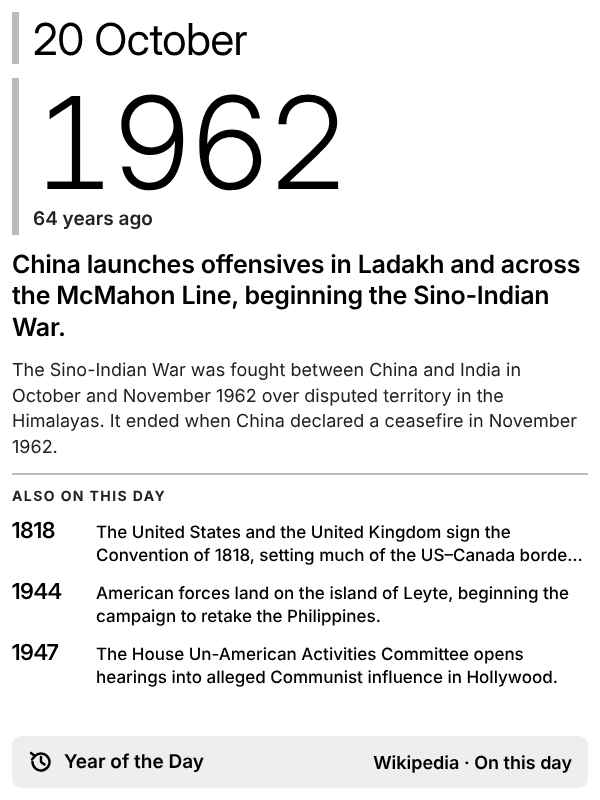
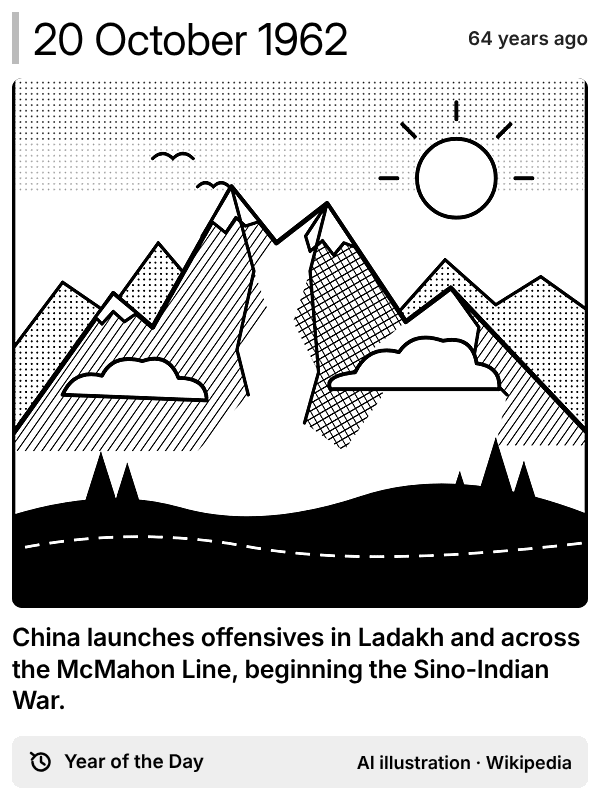
Year of the Day: AI comic / newspaper illustration mode
Draws the day's event as a comic panel (default) or vintage newspaper halftone
illustration with FLUX.1 [schnell] on Cloudflare Workers AI (free daily allowance),
dithered to the Kindle's 16 greys. Made once a day and reused by hourly refreshes.
Picture modes skip events built around a death or an attack. Falls back to the
text layout without Cloudflare keys or on any error. Run summary shows which.

Claude-Session: https://claude.ai/code/session_01GcKyYFsaBsPuGYxqe3XuTx

diff --git a/plugins/year_of_the_day/fetch.py b/plugins/year_of_the_day/fetch.py
@@ -1,16 +1,41 @@
 """Year of the Day: one year in history picked from Wikipedia's "On this day" events for today's date.
 
-Equivalent of TRMNL's "Year of the Day" recipe (text mode). Data: Wikimedia's free feed API, no key.
+Equivalent of TRMNL's "Year of the Day" recipe. Data: Wikimedia's free feed API, no key.
 The pick is seeded by the date, so every refresh that day shows the same year.
+
+Modes (plugin.yaml `settings.mode`):
+  text       year, what happened, background, other years
+  comic      an AI comic-panel illustration of the event, with the year and headline
+  newspaper  the same, drawn as a vintage newspaper halftone illustration
+Image modes use Cloudflare Workers AI (free daily allowance). The image is made once a day
+and reused by the hourly refreshes. Without Cloudflare keys, or if generation fails, the
+screen falls back to text mode.
 """
 import random
+import re
+import shutil
+from pathlib import Path
 
-from core import fmt
+from core import fmt, imagegen, llm
+from core.context import ROOT
 
 SOURCES = [
     "https://api.wikimedia.org/feed/v1/wikipedia/en/onthisday/events/{mm}/{dd}",
     "https://en.wikipedia.org/api/rest_v1/feed/onthisday/events/{mm}/{dd}",
 ]
+IMAGE_W, IMAGE_H = 576, 530
+SITE_IMAGE = "img/year_of_the_day.png"
+# Image modes skip events built around a death or an attack: a drawing of those reads badly.
+GRIM = re.compile(r"\b(kill|killed|killing|assassinat\w*|massacre\w*|murder\w*|execut\w*|bomb\w*|terror\w*|"
+                  r"shot|shooting|dies|died|death|genocide|suicide|hanged|beheaded|crash\w*)\b", re.I)
+STYLES = {
+    "comic": ("Black-and-white comic book panel illustration, bold black ink outlines, cross-hatching and "
+              "halftone dot shading, strong contrast, large clean white areas, dramatic composition."),
+    "newspaper": ("Black-and-white vintage newspaper illustration printed in coarse halftone, engraved "
+                  "ink look, period-accurate details, strong contrast."),
+}
+RULES = ("No text, letters, numbers, captions or speech bubbles. Show places, objects, vehicles, crowds "
+         "or symbols rather than close-up faces of real people. No gore.")
 
 
 def _year_label(y: int) -> str:
@@ -40,15 +65,61 @@ def _load(ctx) -> dict:
     raise RuntimeError(f"On this day feed unavailable: {last}")
 
 
+def _scene(ctx, main: dict, mode: str) -> str:
+    """A visual description of the event for the image model (AI-written when a key is set)."""
+    fallback = f"{main['text']} ({main['label']})."
+    if ctx.demo:
+        return fallback
+    ai, _ = llm.generate_json(
+        ctx,
+        "You turn historical events into one short visual scene for an illustrator. "
+        "Describe only what is seen: setting, objects, era details, mood. Reply with JSON only.",
+        f"Event in {main['label']}: {main['text']}\nBackground: {main['extract']}\n"
+        f"Style: {mode}. {RULES}\n"
+        'Return {"scene": "one sentence, max 45 words"}', max_tokens=200)
+    scene = fmt.strip_html(str((ai or {}).get("scene", "")), 400)
+    return scene or fallback
+
+
+def _illustrate(ctx, main: dict, mode: str) -> Path | None:
+    out = ROOT / "build" / "img" / "year_of_the_day.png"
+    out.parent.mkdir(parents=True, exist_ok=True)
+    # Reuse today's picture from the live site (made by the morning run).
+    prev = ctx.previous_json("data/year_of_the_day.json") or {}
+    if (prev.get("date") == ctx.today and prev.get("mode") == mode and prev.get("image")
+            and (prev.get("main") or {}).get("year") == main["year"]):
+        raw = ctx.previous(SITE_IMAGE)
+        if raw:
+            out.write_bytes(raw)
+            ctx.log("year_of_the_day: reusing today's illustration")
+            return out
+    prompt = f"{STYLES[mode]} Scene: {_scene(ctx, main, mode)} {RULES}"
+    raw = imagegen.generate(ctx, prompt, model=ctx.settings.get("image_model") or imagegen.DEFAULT_MODEL,
+                            seed=int(ctx.today.replace("-", "")) % 1_000_000)
+    if not raw:
+        return None
+    try:
+        imagegen.for_eink(raw, IMAGE_W, IMAGE_H).save(out, optimize=True)
+    except Exception as e:  # not an image we can read
+        ctx.log(f"year_of_the_day: could not process image: {e}")
+        return None
+    return out
+
+
 def fetch(ctx):
+    mode = str(ctx.settings.get("mode", "text")).lower()
+    if mode not in ("text", *STYLES):
+        mode = "text"
     events = [e for e in (_clean(x) for x in _load(ctx).get("events", [])) if e and e["year"] <= ctx.now.year]
     if not events:
         return {"available": False, "error": "no events for today"}
     rng = random.Random(ctx.today)                  # same pick for the whole day
-    with_extract = [e for e in events if e["extract"]] or events
+    pool = [e for e in events if e["extract"]] or events
+    if mode != "text":
+        pool = [e for e in pool if not GRIM.search(e["text"])] or pool
     prefer = [w.lower() for w in ctx.settings.get("prefer") or []]
-    preferred = [e for e in with_extract if any(w in (e["text"] + " " + e["extract"]).lower() for w in prefer)]
-    main = rng.choice(preferred or with_extract)
+    preferred = [e for e in pool if any(w in (e["text"] + " " + e["extract"]).lower() for w in prefer)]
+    main = rng.choice(preferred or pool)
 
     rest = [e for e in events if e["year"] != main["year"]]
     rng.shuffle(rest)
@@ -59,9 +130,24 @@ def fetch(ctx):
             seen.add(e["year"])
         if len(others) == int(ctx.settings.get("also_count", 3)):
             break
+
+    image = _illustrate(ctx, main, mode) if mode != "text" else None
     return {
         "available": True,
+        "date": ctx.today,
+        "mode": mode if image else "text",
         "date_long": ctx.now.strftime("%-d %B"),
         "main": {**main, "ago": ctx.now.year - main["year"] - (1 if main["year"] < 0 else 0)},  # no year 0
         "others": sorted(others, key=lambda e: e["year"]),
+        "image": image.as_uri() if image else None,
+        "image_w": IMAGE_W,
+        "image_h": IMAGE_H,
     }
+
+
+def publish(ctx, data, site_dir: Path):
+    """Publish today's illustration so the hourly refreshes can reuse it."""
+    if data.get("image"):
+        dest = site_dir / SITE_IMAGE
+        dest.parent.mkdir(parents=True, exist_ok=True)
+        shutil.copyfile(ROOT / "build" / "img" / "year_of_the_day.png", dest)

diff --git a/core/imagegen.py b/core/imagegen.py
@@ -1,0 +1,66 @@
+"""Text-to-image via Cloudflare Workers AI (free daily allowance), plus e-ink preparation.
+
+Needs two environment variables (GitHub secrets): CLOUDFLARE_ACCOUNT_ID and CLOUDFLARE_API_TOKEN.
+FLUX.1 [schnell] at 8 steps costs ~82 of the 10,000 free daily units, so one image a day is free.
+"""
+from __future__ import annotations
+
+import base64
+import io
+import os
+
+from PIL import Image, ImageFilter, ImageOps
+
+from .context import Context
+
+DEFAULT_MODEL = "@cf/black-forest-labs/flux-1-schnell"
+API = "https://api.cloudflare.com/client/v4/accounts/{account}/ai/run/{model}"
+
+
+def configured() -> bool:
+    return bool(os.environ.get("CLOUDFLARE_ACCOUNT_ID") and os.environ.get("CLOUDFLARE_API_TOKEN"))
+
+
+def generate(ctx: Context, prompt: str, model: str = DEFAULT_MODEL, seed: int | None = None) -> bytes | None:
+    """Returns encoded image bytes (JPEG/PNG), or None if not configured or the call fails."""
+    if ctx.demo:
+        try:
+            return ctx.fixture("yotd_illustration.png")
+        except FileNotFoundError:
+            return None
+    if not configured():
+        ctx.log("image: CLOUDFLARE_ACCOUNT_ID / CLOUDFLARE_API_TOKEN not set; using the text layout")
+        return None
+    url = os.environ.get("CLOUDFLARE_AI_URL") or API.format(account=os.environ["CLOUDFLARE_ACCOUNT_ID"], model=model)
+    body = {"prompt": prompt[:2048], "steps": 8}
+    if seed is not None:
+        body["seed"] = seed
+    for attempt in (1, 2):
+        try:
+            r = ctx.session.post(url, json=body, timeout=120,
+                                 headers={"Authorization": f"Bearer {os.environ['CLOUDFLARE_API_TOKEN']}"})
+            if r.status_code != 200:
+                ctx.log(f"image: Cloudflare HTTP {r.status_code}: {r.text[:200]}")
+                continue
+            if r.headers.get("content-type", "").startswith("image/"):
+                return r.content
+            payload = r.json()
+            b64 = (payload.get("result") or {}).get("image") or payload.get("image")
+            if not b64:
+                ctx.log(f"image: no image in response: {str(payload)[:200]}")
+                continue
+            return base64.b64decode(b64)
+        except Exception as e:
+            ctx.log(f"image: attempt {attempt} failed: {e}")
+    return None
+
+
+def for_eink(raw: bytes, width: int, height: int) -> Image.Image:
+    """Crop to fill width x height, boost contrast, and dither to the Kindle's 16 greys."""
+    img = Image.open(io.BytesIO(raw)).convert("L")
+    img = ImageOps.fit(img, (width, height), method=Image.Resampling.LANCZOS, centering=(0.5, 0.45))
+    img = ImageOps.autocontrast(img, cutoff=1)
+    img = img.filter(ImageFilter.UnsharpMask(radius=1.2, percent=60, threshold=2))
+    palette = Image.new("P", (1, 1))
+    palette.putpalette([v for level in range(16) for v in (level * 17,) * 3] + [0, 0, 0] * 240)
+    return img.convert("RGB").quantize(palette=palette, dither=Image.Dither.FLOYDSTEINBERG).convert("L")

diff --git a/tools/docs_images.py b/tools/docs_images.py
@@ -97,16 +97,19 @@ def main() -> None:
     fb = TMP / "fixtures"
     shutil.copytree(ROOT / "fixtures", fb)
     (fb / "demo" / "llm_brief.json").write_text('{"unusable": true}')
+    (fb / "demo" / "yotd_illustration.png").unlink()      # no image -> Year of the Day text layout
     real = ROOT / "fixtures"
     backup = ROOT / "build" / "fixtures.bak"
     shutil.move(real, backup)
     try:
         shutil.copytree(fb, real)
         fsite = run_build("build/docs/fallback", "07:00")
+        run_build("build/docs/fallback_yotd", "11:30")
     finally:
         shutil.rmtree(real)
         shutil.move(backup, real)
     shutil.copyfile(fsite / "screens" / "morning_brief.png", OUT / "screen-morning_brief-fallback.png")
+    shutil.copyfile(ROOT / "build/docs/fallback_yotd/screens/year_of_the_day.png", OUT / "screen-year_of_the_day-text.png")
 
     # 4. The site's index page
     with sync_playwright() as pw:

diff --git a/build.py b/build.py
@@ -90,6 +90,10 @@ def write_run_summary(ctx, plugins, rendered, on_air) -> None:
             result = f"skipped: {d.get('error', 'no data')}"[:160]
         elif p.name == "morning_brief":
             result = f"AI brief by `{d['model']}`" if d.get("ai") else "headlines only (AI unavailable or no key)"
+        elif p.name == "year_of_the_day":
+            result = (f"{d['mode']} illustration" if d.get("image")
+                      else "text" + (" (image mode set, but no Cloudflare keys or the image failed)"
+                                     if p.settings.get("mode", "text") != "text" else ""))
         else:
             result = "rendered"
         rows.append(f"| {p.title}{' (on air)' if on_air and p.name == on_air.name else ''} | {result} |")

diff --git a/README.md b/README.md
@@ -7,7 +7,7 @@ nothing to host, nothing to keep switched on at home.
 
 ![Four Kindle screens: the morning brief, weather and air quality, quarter progress, and year of the day](docs/images/hero.png)
 
-<sub>Screens shown with sample data. They are rendered at the Kindle's exact resolution (600×800) in 16 shades of grey.</sub>
+<sub>Screens shown with sample data (the Year of the Day picture is a hand-drawn stand-in for an AI one). They are rendered at the Kindle's exact resolution (600×800) in 16 shades of grey.</sub>
 
 ---
 
@@ -50,7 +50,7 @@ nothing to host, nothing to keep switched on at home.
 <td align="center"><img src="docs/images/screen-countdown-example.png" width="300" alt="Example custom countdown screen"><br><b>Your own screen</b><br><sub>a countdown, in three small files</sub></td>
 </tr>
 <tr>
-<td valign="top">A year in history picked from Wikipedia's "On this day" events for today's date: what happened, a short background, and a few other years for the same date. Like TRMNL's <a href="https://trmnl.com/recipes/year-of-the-day-148248">Year of the Day</a> recipe (text version). Set <code>prefer: ["India"]</code> in its <code>plugin.yaml</code> to favour events you care about.</td>
+<td valign="top">A year in history from Wikipedia's "On this day" events for today's date, drawn as an <b>AI comic panel</b> (or a vintage-newspaper illustration) with the headline, like TRMNL's <a href="https://trmnl.com/recipes/year-of-the-day-148248">Year of the Day</a> recipe. The picture is made once a day for free on Cloudflare. Without Cloudflare keys it shows the <a href="docs/images/screen-year_of_the_day-text.png">text version</a> instead. <sub>The picture above is a hand-drawn stand-in for the demo.</sub></td>
 <td valign="top">Every screen is a folder you can copy. See <a href="#build-your-own-screen">Build your own screen</a>.</td>
 </tr>
 </table>
@@ -101,7 +101,13 @@ You need a Kindle that's already jailbroken with KOReader installed, and about 2
    `OPENROUTER_API_KEY` and paste the key.
    > No key? Everything still works. The brief becomes a plain list of top headlines.
 2. **Turn on Pages.** **Settings → Pages → Build and deployment → Source: GitHub Actions.**
-3. **Run it once.** **Actions → Build Kindle site → Run workflow** (mode: `full`).
+3. **Optional: AI pictures for Year of the Day.** Make a free [Cloudflare](https://dash.cloudflare.com/sign-up)
+   account, open **AI → Workers AI → Use REST API**, copy the **Account ID**, then click
+   **Create a Workers AI API Token** and copy the token. Add both as repository secrets:
+   `CLOUDFLARE_ACCOUNT_ID` and `CLOUDFLARE_API_TOKEN`.
+   > One picture a day uses under 1% of Cloudflare's free daily allowance. Skip this step and the
+   > screen simply shows the text version.
+4. **Run it once.** **Actions → Build Kindle site → Run workflow** (mode: `full`).
    When it turns green, open <https://thirstyrhino.github.io/kindle-hub/>.
 
 Each run's page on GitHub starts with a short summary of what happened:
@@ -147,6 +153,7 @@ Each part fails on its own, and the Kindle never ends up blank.
 
 | If this fails | What you see |
 |---|---|
+| The Year of the Day picture (no Cloudflare keys, or an error) | The text version of the screen |
 | The AI (no key, rate limit, bad answer) | The brief switches to **Headlines only**: the top stories from your feeds, no summary |
 | A news feed | That feed is skipped; the others still go in |
 | Weather or markets | That screen drops out of the rotation until the next run that works |
@@ -174,6 +181,10 @@ Everything you're likely to change is in [`config.yaml`](config.yaml):
 | `screen.refresh_seconds` | How often the Kindle asks for a new screen |
 
 - **When each screen shows:** the `show:` times in each screen's `plugins/<name>/plugin.yaml`.
+- **Year of the Day style:** in `plugins/year_of_the_day/plugin.yaml`, set `mode:` to `comic`
+  (default), `newspaper` or `text`. Add words to `prefer:` (e.g. `["India"]`) to favour those events.
+  Picture modes skip events built around a death or an attack, and never put real people's faces
+  front and centre.
 - **Financial-year quarters:** in `plugins/quarter_progress/plugin.yaml`, set
   `fiscal_year_start: 4`. October–December then shows as **Q3 FY27**.
 - **When the builds run:** `.github/workflows/build.yml`. Cron times are UTC (IST = UTC + 5:30).
@@ -292,4 +303,6 @@ assets/fonts/             Inter typeface (SIL Open Font License, included)
 [TRMNL framework](https://trmnl.com/framework) this borrows its class names from ·
 [Open-Meteo](https://open-meteo.com) for weather and air quality ·
 [OpenRouter](https://openrouter.ai) for the AI models ·
+[Cloudflare Workers AI](https://developers.cloudflare.com/workers-ai/) running FLUX.1 [schnell] for the illustrations ·
+[Wikipedia](https://www.wikipedia.org) for On this day ·
 [Inter](https://rsms.me/inter/) by Rasmus Andersson.
